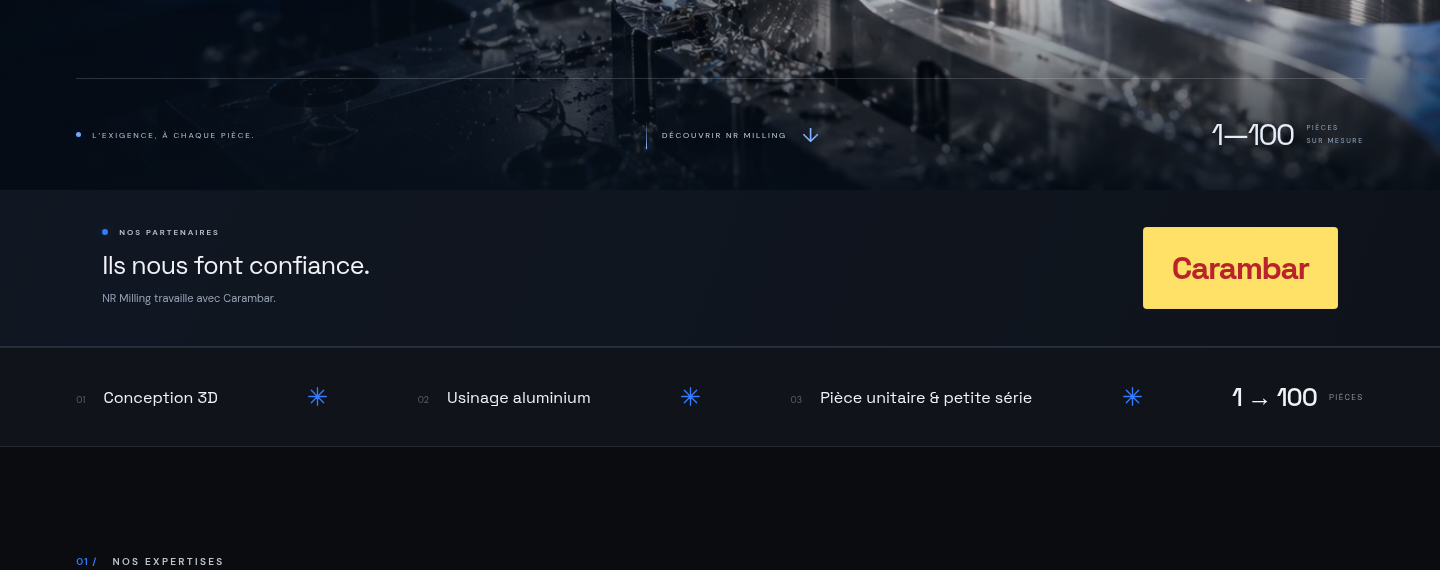
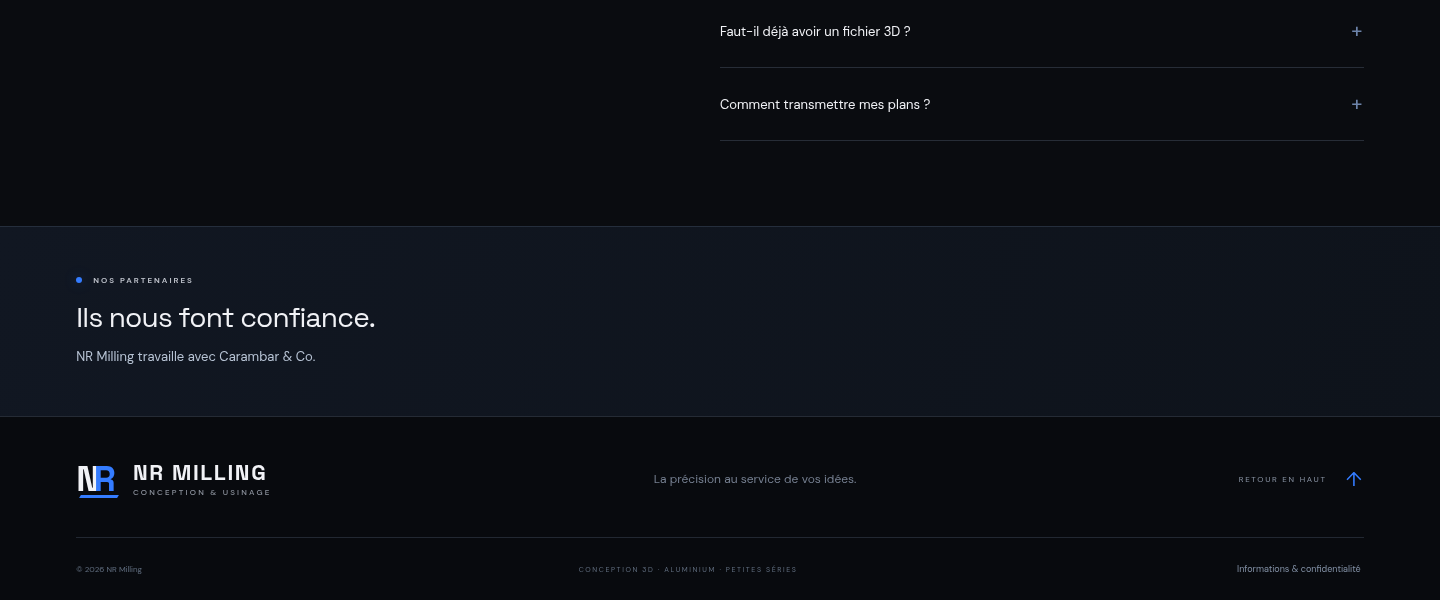
Déplacer la rubrique Carambar & Co en bas et retirer le visuel non officiel

diff --git a/index.html b/index.html
@@ -40,17 +40,6 @@
         </div>
       </section>
 
-      <section class="partners" aria-labelledby="partners-title">
-        <div class="partners-heading">
-          <div class="eyebrow"><span class="status-dot"></span> NOS PARTENAIRES</div>
-          <h2 id="partners-title">Ils nous font confiance.</h2>
-          <p>NR Milling travaille avec Carambar.</p>
-        </div>
-        <div class="partner-brand" aria-label="Carambar">
-          <span class="partner-wordmark">Carambar</span>
-        </div>
-      </section>
-
       <div class="capabilities" aria-label="Nos spécialités"><span><i>01</i> Conception 3D</span><b aria-hidden="true"><svg class="icon star-icon" viewBox="0 0 24 24" fill="none" aria-hidden="true"><path d="M12 1v22M1 12h22M4.2 4.2l15.6 15.6M4.2 19.8 19.8 4.2" /></svg></b><span><i>02</i> Usinage aluminium</span><b aria-hidden="true"><svg class="icon star-icon" viewBox="0 0 24 24" fill="none" aria-hidden="true"><path d="M12 1v22M1 12h22M4.2 4.2l15.6 15.6M4.2 19.8 19.8 4.2" /></svg></b><span><i>03</i> Pièce unitaire & petite série</span><b aria-hidden="true"><svg class="icon star-icon" viewBox="0 0 24 24" fill="none" aria-hidden="true"><path d="M12 1v22M1 12h22M4.2 4.2l15.6 15.6M4.2 19.8 19.8 4.2" /></svg></b><span class="series"><strong>1 → 100</strong> PIÈCES</span></div>
 
       <section class="section expertise-section" id="expertises">
@@ -79,6 +68,15 @@
       </section>
 
       <section class="section faq-section"><div><div class="eyebrow">UNE DERNIÈRE QUESTION ?</div><h2>Quelques repères.</h2></div><div class="faq-list"><details><summary>Puis-je commander une seule pièce ?<span>+</span></summary><p>Oui. NR Milling réalise des pièces à l’unité et des petites séries jusqu’à 100 pièces. Précisez la quantité dans votre demande pour recevoir un devis adapté.</p></details><details><summary>Faut-il déjà avoir un fichier 3D ?<span>+</span></summary><p>Non. Vous pouvez nous transmettre un croquis, des dimensions ou une description de votre besoin. La conception 3D fait partie de nos prestations et peut être étudiée avec vous.</p></details><details><summary>Comment transmettre mes plans ?<span>+</span></summary><p>Le formulaire prépare un e-mail dans Gmail. Joignez-y vos plans, photos ou fichiers 3D avant de l’envoyer. Vous pouvez aussi écrire directement à nrmilling@gmail.com.</p></details></div></section>
+      <section class="partners" aria-labelledby="partners-title">
+        <div class="partners-heading">
+          <div class="eyebrow"><span class="status-dot"></span> NOS PARTENAIRES</div>
+          <h2 id="partners-title">Ils nous font confiance.</h2>
+          <p>NR Milling travaille avec Carambar &amp; Co.</p>
+          <!-- Ajouter ici uniquement le fichier du logo officiel fourni par le client. -->
+        </div>
+      </section>
+
     </main>
 
     <footer class="footer"><div class="footer-main"><a class="brand" href="#" aria-label="NR Milling, retour en haut"><span class="brand-symbol" aria-hidden="true">N<span>R</span><i></i></span><span class="brand-text">NR MILLING<span>CONCEPTION & USINAGE</span></span></a><p>La précision au service de vos idées.</p><a href="#" class="back-top">RETOUR EN HAUT <span aria-hidden="true">↑</span></a></div><div class="footer-bottom"><span>© <span id="year"></span> NR Milling</span><span>CONCEPTION 3D · ALUMINIUM · PETITES SÉRIES</span><button type="button" id="legal-open">Informations & confidentialité</button></div></footer>

diff --git a/src/style.css b/src/style.css
@@ -251,39 +251,19 @@ dialog h2{font-size:24px}}
 .capabilities>b{display:none}
 .capabilities>.series{flex-direction:row;justify-content:flex-start}}
 
-/* Partner names are text until an official logo asset is provided. */
+/* Trust section at the bottom of the page; no imitation of a brand logo. */
 .partners {
-  display: flex;
-  align-items: center;
-  justify-content: space-between;
-  gap: 40px;
-  padding: 37px 7.1%;
-  border-bottom: 1px solid #2a3342;
+  padding: 48px 5.3%;
+  border-top: 1px solid #252e3c;
   background: linear-gradient(110deg, #111722, #0e131b);
 }
 .partners-heading .eyebrow { font-size: 8px; letter-spacing: 2px; }
-.partners-heading h2 { font: 400 25px/1.25 var(--heading); letter-spacing: -.7px; margin: 13px 0 8px; }
-.partners-heading p { color: #95a2b6; font-size: 11px; line-height: 1.8; margin: 0; }
-.partner-brand {
-  min-width: 195px;
-  min-height: 82px;
-  padding: 17px 28px;
-  display: grid;
-  place-items: center;
-  border: 1px solid #e7c96055;
-  border-radius: 4px;
-  background: #ffe167;
-}
-.partner-wordmark { font: italic 700 32px/1.2 var(--heading); letter-spacing: -1.5px; color: #b9232b; }
+.partners-heading h2 { font: 400 28px/1.25 var(--heading); letter-spacing: -.8px; margin: 15px 0 10px; }
+.partners-heading p { color: #b7c3d4; font-size: 13px; line-height: 1.8; margin: 0; }
+.partner-logo { display: block; object-fit: contain; max-width: 190px; height: 80px; margin-top: 25px; }
 @media (max-width: 600px) {
-  .partners { padding: 29px 6%; gap: 20px; }
-  .partners-heading .eyebrow { font-size: 7px; letter-spacing: 1.1px; }
-  .partners-heading h2 { font-size: 20px; max-width: 180px; }
-  .partners-heading p { font-size: 10px; max-width: 175px; }
-  .partner-brand { min-width: 125px; min-height: 65px; padding: 13px 16px; }
-  .partner-wordmark { font-size: 25px; letter-spacing: -1.4px; }
-}
-@media (max-width: 360px) {
-  .partners { flex-direction: column; align-items: flex-start; gap: 23px; }
-  .partners-heading h2, .partners-heading p { max-width: none; }
+  .partners { padding: 37px 6%; }
+  .partners-heading .eyebrow { font-size: 7px; letter-spacing: 1.4px; }
+  .partners-heading h2 { font-size: 24px; }
+  .partners-heading p { font-size: 12px; }
 }

diff --git a/README.md b/README.md
@@ -14,9 +14,9 @@ Les images ci-dessous sont des captures du site affiché dans un navigateur. Vou
 
 ### Partenaires
 
-![La rubrique « Ils nous font confiance » avec la mention Carambar, juste sous l’image d’accueil.](docs/apercu-partenaires.png)
+![La rubrique « Ils nous font confiance », en bas de page, avant le pied de page.](docs/apercu-partenaires.png)
 
-La collaboration avec Carambar est mentionnée à la demande de NR Milling. Le nom est actuellement présenté sous forme de texte ; le logo officiel n’a pas été fourni et son téléchargement est bloqué dans cet environnement. Dès réception du fichier officiel, remplacer le texte `.partner-wordmark` dans `index.html` par une image locale avec le texte alternatif « Carambar ».
+La rubrique présente uniquement Carambar & Co et se trouve après les questions fréquentes, en bas du site. Aucun logo recréé ou imité n’est utilisé. Le logo officiel doit être fourni en PNG ou SVG avant son intégration ; son téléchargement est bloqué dans cet environnement. Placer le fichier dans `public/images/partenaires/`, puis l’ajouter dans la rubrique avec la classe `partner-logo` et un texte alternatif reprenant le nom exact de la marque.
 
 ### Galerie des réalisations
 
